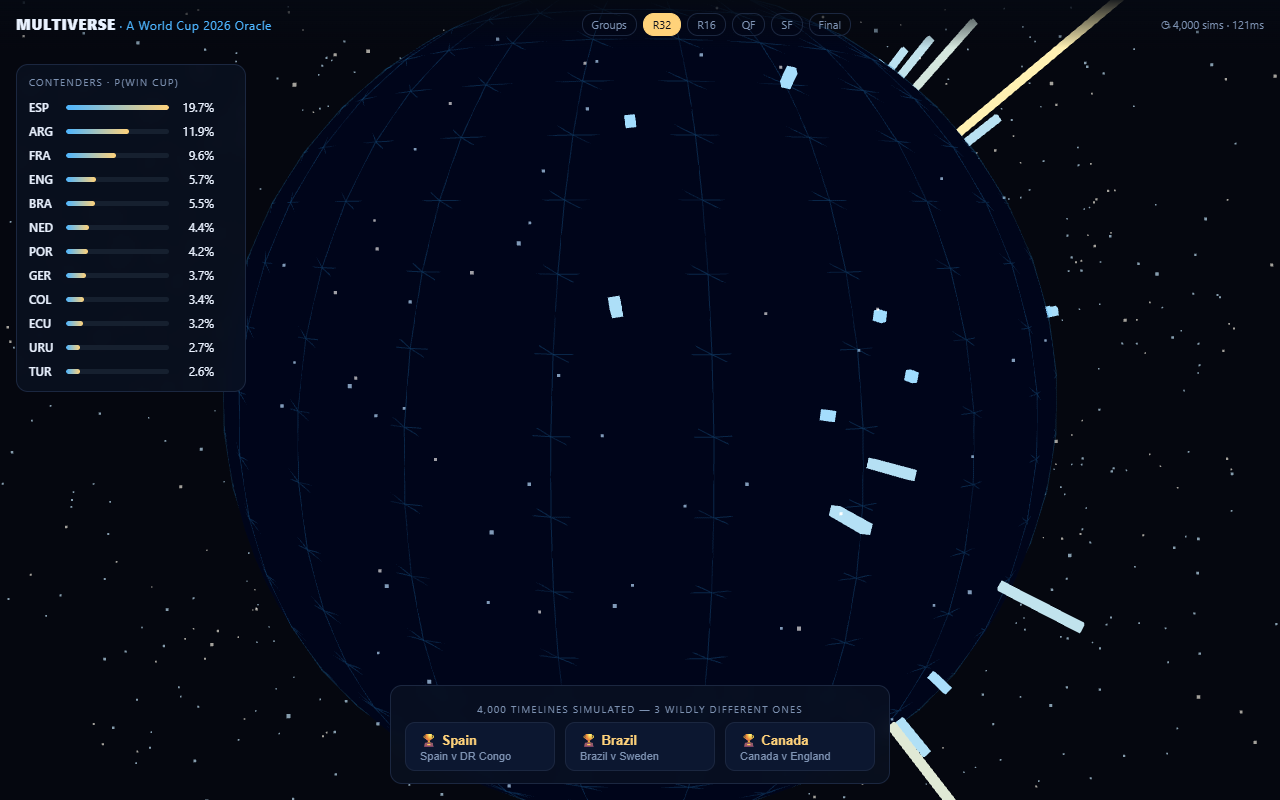
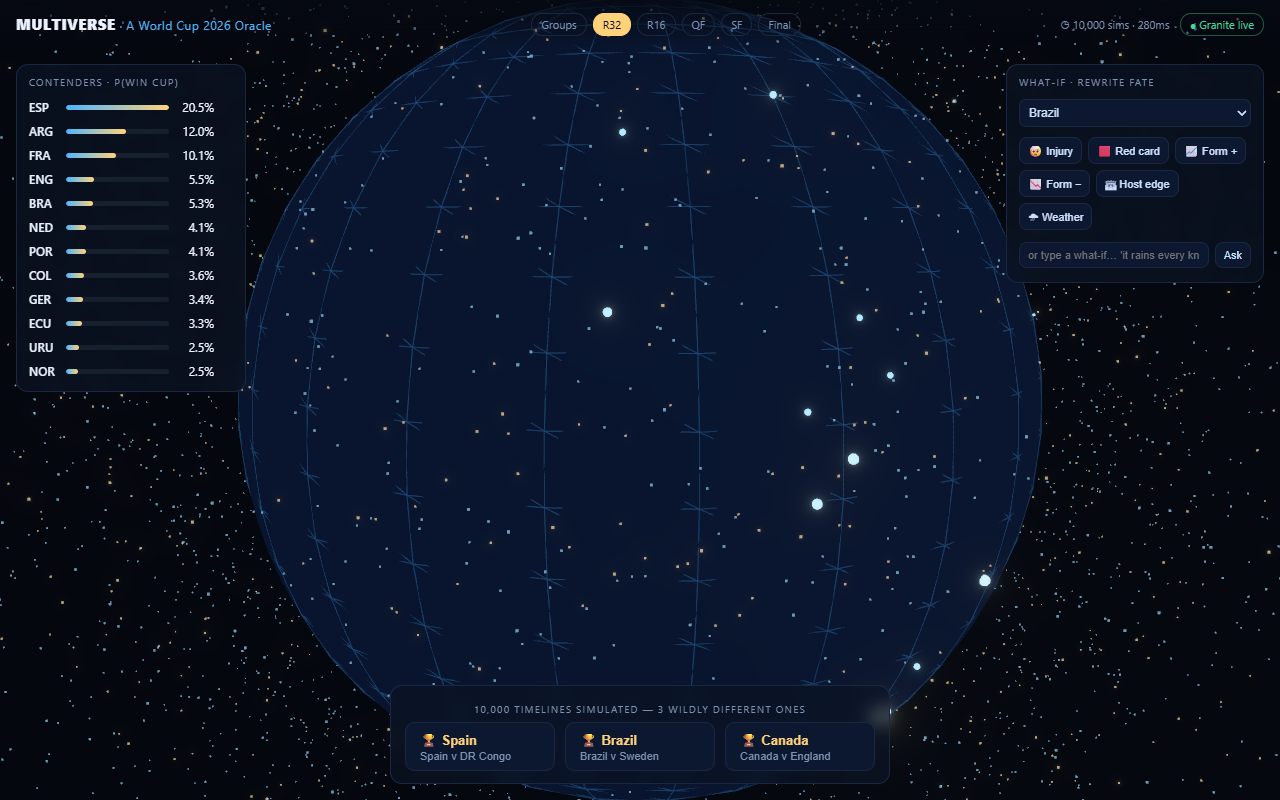
fix(globe): replace streaking radial pillars with glowing surface dots + hemisphere cull; tune bloom; ?hq override; serial e2e (4/4 green)

diff --git a/web/src/scene/Pillars.tsx b/web/src/scene/Pillars.tsx
@@ -4,13 +4,15 @@ import { useFrame } from '@react-three/fiber'
 import { useStore } from '../state/store'
 import { COORDS, latLonToVec3 } from '../data/coords'
 
-const MAXH = 1.35
 const dummy = new THREE.Object3D()
 const col = new THREE.Color()
-const up = new THREE.Vector3(0, 1, 0)
+const camDir = new THREE.Vector3()
+const q = new THREE.Quaternion()
+const wn = new THREE.Vector3()
 
-// Glowing bar per nation; height = P(win). Heights tween toward target each frame so
-// a what-if visibly ripples; matrices update in place (no geometry recreation).
+// One glowing node per nation, sitting ON the globe surface; radius + brightness = P(win).
+// A surface dot can't streak past the silhouette like a radial bar, and we still fade it
+// out on the far/rim hemisphere so only camera-facing nations light up (like city lights).
 export function Pillars({ R }: { R: number }) {
   const sim = useStore((s) => s.sim)
   const ratings = useStore((s) => s.ratings)
@@ -27,7 +29,7 @@ export function Pillars({ R }: { R: number }) {
     [codes],
   )
   const ref = useRef<THREE.InstancedMesh>(null)
-  const target = useRef(new Float32Array(48))
+  const target = useRef(new Float32Array(48)) // normalized 0..1 by favorite
   const cur = useRef(new Float32Array(48))
 
   useEffect(() => {
@@ -37,30 +39,34 @@ export function Pillars({ R }: { R: number }) {
     for (const c of codes) maxP = Math.max(maxP, sim.perTeam[c]?.pChamp ?? 0)
     maxP = maxP || 1
     for (let i = 0; i < 48; i++) {
+      const frac = i < codes.length ? (sim.perTeam[codes[i]]?.pChamp ?? 0) / maxP : 0
+      target.current[i] = frac
       if (i < codes.length) {
-        const frac = (sim.perTeam[codes[i]]?.pChamp ?? 0) / maxP
-        target.current[i] = Math.max(0.03, frac * MAXH)
-        col.setRGB(0.35 + 0.65 * frac, 0.72 + 0.16 * frac, 1 - 0.55 * frac)
+        col.setRGB(0.42 + 0.58 * frac, 0.76 + 0.18 * frac, 1 - 0.45 * frac)
         mesh.setColorAt(i, col)
-      } else {
-        target.current[i] = 0
       }
     }
     if (mesh.instanceColor) mesh.instanceColor.needsUpdate = true
   }, [sim, codes])
 
-  useFrame((_, dt) => {
+  useFrame((state, dt) => {
     const mesh = ref.current
     if (!mesh) return
+    camDir.copy(state.camera.position).normalize() // globe at origin
+    mesh.parent?.getWorldQuaternion(q)
     const k = Math.min(1, dt * 4)
     for (let i = 0; i < 48; i++) {
       cur.current[i] += (target.current[i] - cur.current[i]) * k
       if (i < normals.length) {
-        const h = Math.max(0.0001, cur.current[i])
         const nm = normals[i]
-        dummy.position.copy(nm).multiplyScalar(R + h / 2)
-        dummy.quaternion.setFromUnitVectors(up, nm)
-        dummy.scale.set(0.045, h, 0.045)
+        wn.copy(nm).applyQuaternion(q)
+        const facing = wn.dot(camDir)
+        const t = THREE.MathUtils.clamp((facing - 0.15) / 0.35, 0, 1)
+        const sv = t * t * (3 - 2 * t)
+        const radius = (0.014 + cur.current[i] * 0.06) * sv
+        dummy.position.copy(nm).multiplyScalar(R + 0.01)
+        dummy.quaternion.identity()
+        dummy.scale.setScalar(Math.max(0.0001, radius))
         dummy.updateMatrix()
         mesh.setMatrixAt(i, dummy.matrix)
       } else {
@@ -74,7 +80,7 @@ export function Pillars({ R }: { R: number }) {
 
   return (
     <instancedMesh ref={ref} args={[undefined as any, undefined as any, 48]} frustumCulled={false}>
-      <boxGeometry args={[1, 1, 1]} />
+      <sphereGeometry args={[1, 12, 12]} />
       <meshBasicMaterial toneMapped={false} />
     </instancedMesh>
   )

diff --git a/web/src/quality.ts b/web/src/quality.ts
@@ -2,9 +2,10 @@
 // so the WebGL context stays valid under SwiftShader, and shrinks N so e2e is fast.
 const isHeadless = (() => {
   try {
+    const params = typeof location !== 'undefined' ? new URLSearchParams(location.search) : new URLSearchParams()
+    if (params.has('hq')) return false // force full quality (for capture/diagnostics) even under automation
     const w = typeof navigator !== 'undefined' && (navigator as any).webdriver
-    const q = typeof location !== 'undefined' && new URLSearchParams(location.search).has('headless')
-    return Boolean(w || q)
+    return Boolean(w || params.has('headless'))
   } catch {
     return false
   }
@@ -13,7 +14,7 @@ const isHeadless = (() => {
 export const quality = {
   headless: isHeadless,
   bloom: !isHeadless,
-  bloomParams: { intensity: 1.1, luminanceThreshold: 0.18, mipmapBlur: true },
+  bloomParams: { intensity: 0.6, luminanceThreshold: 0.32, mipmapBlur: true },
   particles: isHeadless ? 1200 : 6000,
   simN: isHeadless ? 4000 : 10000,
   tier: isHeadless ? 'headless' : 'high',

diff --git a/web/src/scene/Globe.tsx b/web/src/scene/Globe.tsx
@@ -45,7 +45,7 @@ export function Globe() {
           <bufferAttribute attach="attributes-position" args={[atmo.pos, 3]} />
           <bufferAttribute attach="attributes-color" args={[atmo.col, 3]} />
         </bufferGeometry>
-        <pointsMaterial size={0.026} vertexColors transparent opacity={0.7}
+        <pointsMaterial size={0.02} vertexColors transparent opacity={0.45}
           blending={THREE.AdditiveBlending} depthWrite={false} />
       </points>
       <Pillars R={GLOBE_R} />

diff --git a/web/playwright.config.ts b/web/playwright.config.ts
@@ -6,6 +6,7 @@ export default defineConfig({
   timeout: 90_000,
   expect: { timeout: 15_000 },
   fullyParallel: false,
+  workers: 1, // serial — avoids Chromium/Granite/CPU contention flakiness on one dev box
   reporter: 'line',
   use: {
     baseURL: 'http://localhost:8000',

diff --git a/DECISION-JOURNAL.md b/DECISION-JOURNAL.md
@@ -136,3 +136,15 @@ Built end-to-end, committing after every green gate. Final state:
 - **Public repo:** GitHub auth was present (`kayadibi1`), so the repo was created public and pushed — fulfilling the submission requirement under the standing autonomy grant.
 
 **Honest scope notes:** the rich on-rails cold-open (space→arcs→dive) is a lightweight flythrough (the elaborate version is stretch); no dynamic FPS step-down (static headless reduction only); Langflow/Context Forge are real artifacts mirrored in code, not live servers (stated in their READMEs). None of these block the verified MVP.
+
+---
+
+## 11 · Post-launch fix — the globe "streaks" (a verification blind spot)
+
+**Symptom (user-reported):** in the real browser the globe looked "very wrong" — light streaks shooting off it.
+
+**Root cause:** two compounding things my headless verification couldn't catch. (1) The probability **pillars were radial bars**; near the globe's limb a bar points sideways and pokes *past* the silhouette → a streak. (2) **Bloom is ON in a real browser but my e2e ran headless with bloom OFF** (the `?headless=1` quality flag disables it), so the streaks were invisible in every screenshot I'd checked. The verification was green but tested a *different* visual than the user saw.
+
+**Fix:** (a) added a `?hq=1` override so I could capture the true bloom-on render under automation; (b) replaced bars with **glowing surface dots sized by P(win)** — a node *on* the surface can't streak past the silhouette — plus camera-facing-hemisphere culling so only front nations light up (like city lights); (c) tuned bloom down (intensity 1.1→0.6, threshold 0.18→0.32) and thinned the atmosphere; (d) made the e2e suite **serial** (`workers:1`) after a parallel-load flake. Re-verified: 4/4 e2e green, and a captured *bloom-on* screenshot confirms the clean look.
+
+**Lesson recorded:** "verified" must mean *the artifact the user actually experiences*. A headless WebGL pass is necessary but not sufficient — a bloom-on visual capture has to be part of the loop, not an afterthought.
